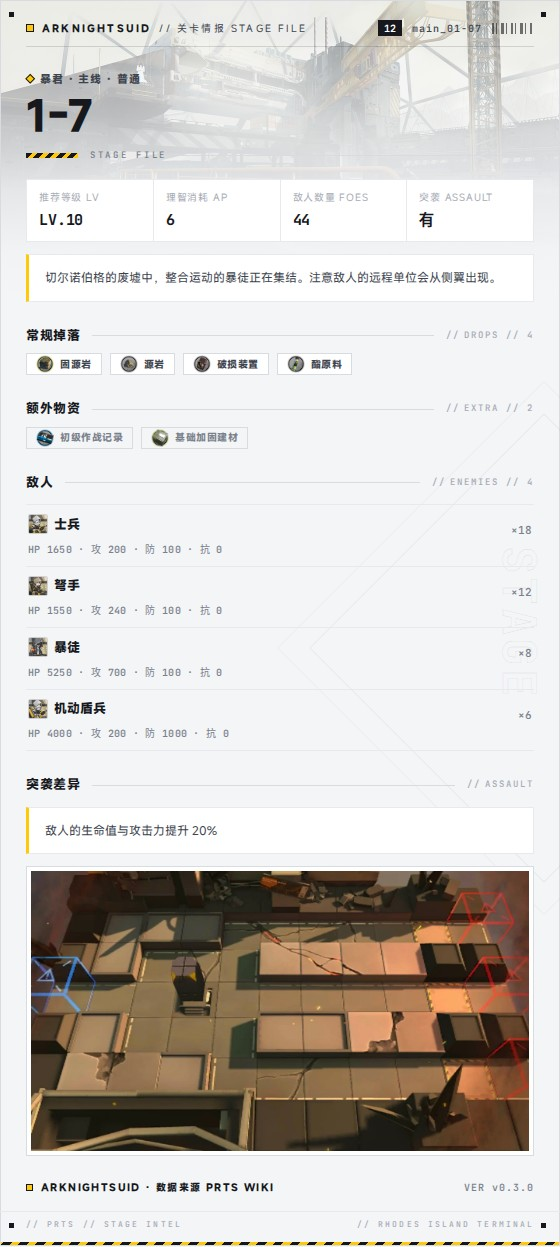
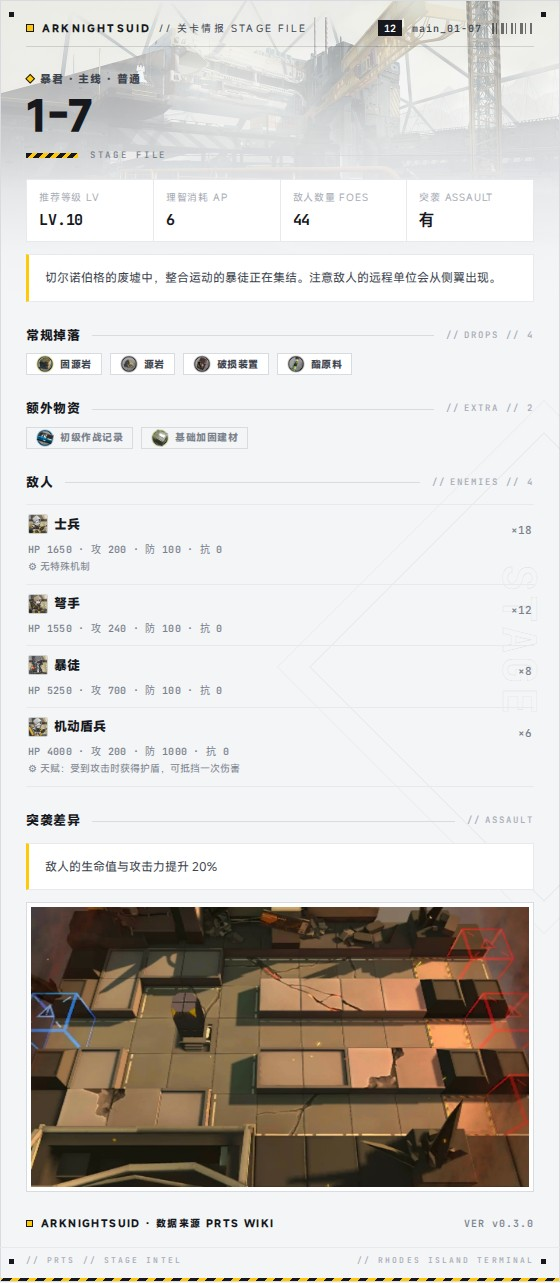
⚙ 敌人机制完善展示：关卡卡敌人行机制摘要 + 详情卡机制多行/等级2独立机制
- 关卡卡：敌人页等级块的天赋/能力字段压缩为一行「⚙ 机制」摘要（多行展平、clip 120），
  文本回退附「｜机制：…」；数值行取自同一敌人页，不增加额外请求
- 敌人详情卡：「能力」区块更名「机制」并保留多行结构（pre-line，状态机类机制如
  萨卡兹魔剑士【待命】/【临战】不再被折叠）；等级2变体如有独立机制单独成区
- 实测：1-7 鸡尾酒投掷者「天赋：不会攻击飞行单位」上关卡卡；魔剑士多行机制完整渲染
- 全量 338 通过；预览与帮助文案同步

diff --git a/ArknightsUID/templates/ark_wiki_enemy.html b/ArknightsUID/templates/ark_wiki_enemy.html
@@ -79,10 +79,17 @@
 
         {% if abilities %}
         <div class="sect">
-            <span class="sect-label bk">能力</span>
+            <span class="sect-label bk">机制</span>
             <span class="sect-en">ABILITIES // {{ abilities | length }}</span>
         </div>
-        <div class="prose">{{ abilities | join("；") }}</div>
+        <div class="prose" style="white-space: pre-line;">{{ abilities | join("\n") }}</div>
+        {% endif %}
+        {% if lv2_abilities %}
+        <div class="sect">
+            <span class="sect-label bk">等级2机制</span>
+            <span class="sect-en">LV2 ABILITIES // {{ lv2_abilities | length }}</span>
+        </div>
+        <div class="prose" style="white-space: pre-line;">{{ lv2_abilities | join("\n") }}</div>
         {% endif %}
 
         {% if description %}

diff --git a/ArknightsUID/templates/ark_wiki_stage.html b/ArknightsUID/templates/ark_wiki_stage.html
@@ -97,6 +97,9 @@
                     HP {{ e.hp or "-" }} · 攻 {{ e.atk or "-" }} · 防 {{ e.defense or "-" }} · 抗 {{ e.res or "-" }}
                 </div>
                 {% endif %}
+                {% if e.mechanics %}
+                <div style="margin-top: 2px; font-size: 10px; color: var(--tx-2); line-height: 1.6;">⚙ {{ e.mechanics }}</div>
+                {% endif %}
             </div>
             {% endfor %}
         </div>

diff --git a/tests/test_wiki_render.py b/tests/test_wiki_render.py
@@ -535,9 +535,15 @@ class WikiBuildContextTest(unittest.IsolatedAsyncioTestCase):
             title="爱国者",
             name="爱国者",
             levels=[
-                EnemyLevel(max_hp="45000", atk="1600", defense="500", res="45"),
-                # 等级2 变体（差异字段已在解析层从等级1继承补全）
-                EnemyLevel(max_hp="60000", atk="2000", defense="500", res="45"),
+                EnemyLevel(
+                    max_hp="45000", atk="1600", defense="500", res="45",
+                    abilities=["行军姿态：防御力大幅提升，阻挡数+1"],
+                ),
+                # 等级2 变体（差异字段已在解析层从等级1继承补全）+ 独立机制
+                EnemyLevel(
+                    max_hp="60000", atk="2000", defense="500", res="45",
+                    abilities=["毁灭姿态：攻击造成范围伤害"],
+                ),
             ],
         )
         context = await _build_enemy_context(enemy)
@@ -546,9 +552,19 @@ class WikiBuildContextTest(unittest.IsolatedAsyncioTestCase):
         self.assertEqual(context["lv2_atk"], "2000")
         self.assertEqual(context["lv2_defense"], "500")
         self.assertEqual(context["lv2_res"], "45")
+        self.assertEqual(
+            context["abilities"], ["行军姿态：防御力大幅提升，阻挡数+1"]
+        )
+        self.assertEqual(context["lv2_abilities"], ["毁灭姿态：攻击造成范围伤害"])
         text = _format_enemy(enemy)
         self.assertIn("等级2：", text)
         self.assertIn("生命 60000", text)
+        self.assertIn("等级2机制：毁灭姿态：攻击造成范围伤害", text)
+        html_render = ark_templates.get_template("ark_wiki_enemy.html").render(
+            font_css_url="about:blank", **context
+        )
+        self.assertIn("毁灭姿态", html_render)
+        self.assertIn("等级2机制", html_render)
 
     async def test_build_stage_context_without_map_file(self) -> None:
         """地图文件不存在/解析失败：map_image 留空，其余字段不受影响。"""
@@ -631,7 +647,13 @@ class WikiBuildContextTest(unittest.IsolatedAsyncioTestCase):
                     title="士兵",
                     name="士兵",
                     levels=[
-                        EnemyLevel(max_hp="1650", atk="200", defense="100", res="0")
+                        EnemyLevel(
+                            max_hp="1650",
+                            atk="200",
+                            defense="100",
+                            res="0",
+                            abilities=["天赋：不会攻击飞行单位"],
+                        )
                     ],
                 )
             return None
@@ -662,8 +684,12 @@ class WikiBuildContextTest(unittest.IsolatedAsyncioTestCase):
         # 查不到的敌人不携带数值键（模板只显示名字）
         self.assertNotIn("hp", rows[1])
         # 文本回退同样带基础数值
+        # 机制压缩行（多行条目展平）
+        self.assertEqual(rows[0]["mechanics"], "天赋：不会攻击飞行单位")
+        self.assertEqual(rows[1]["mechanics"], "")
         text = _format_stage(stage, rows)
         self.assertIn("士兵x18（HP1650·攻200·防100·抗0）", text)
+        self.assertIn("机制：天赋：不会攻击飞行单位", text)
         self.assertIn("查无此敌x1", text)
         # 无增强数据时回退纯名单（不带空括号）
         plain = _format_stage(stage)

diff --git a/ArknightsUID/arknightsuid_wiki/__init__.py b/ArknightsUID/arknightsuid_wiki/__init__.py
@@ -325,6 +325,8 @@ def _format_enemy(enemy: EnemyInfo) -> str:
             ]
             if stats2:
                 lines.append("等级2：" + "，".join(stats2))
+            if lv2.abilities:
+                lines.append("等级2机制：" + _clip("；".join(lv2.abilities), 200))
 
     _append_source(lines, enemy.source_url)
     return "\n".join(lines)
@@ -367,7 +369,10 @@ def _format_stage(stage: StageInfo, enemies_ctx: list[dict] | None = None) -> st
                 if row.get(key)
             ]
             stat_text = f"（{'·'.join(stats)}）" if stats else ""
-            enemies.append(f"{row['name']}{suffix}{stat_text}")
+            entry = f"{row['name']}{suffix}{stat_text}"
+            if row.get("mechanics"):
+                entry += f"｜机制：{_clip(row['mechanics'], 50)}"
+            enemies.append(entry)
         lines.append("敌人：" + "、".join(enemies))
     if stage.assault_diffs:
         lines.append("突袭差异：" + "；".join(stage.assault_diffs))
@@ -760,6 +765,10 @@ async def _build_enemy_context(enemy: EnemyInfo) -> dict:
         "lv2_res": level2.res if level2 else "",
         "weight": level.weight if level else "",
         "abilities": list(level.abilities) if level else [],
+        # 等级2 变体独立机制（差异块未写则与等级1一致，不重复展示）
+        "lv2_abilities": (
+            list(level2.abilities) if level2 and level2.abilities else []
+        ),
         "icon": await enemy_icon_b64(enemy.name or enemy.title),
         "source_url": enemy.source_url,
         "version": ArknightsUID_version,
@@ -785,6 +794,8 @@ async def _enemy_basic_stats(name: str) -> dict:
                 "atk": lv.atk,
                 "defense": lv.defense,
                 "res": lv.res,
+                # 机制（等级块的天赋/能力/技能字段；完整内容走 ark敌人 详情卡）
+                "abilities": [a for a in (lv.abilities or []) if a],
             }
     except Exception:
         logger.debug(f"[ArknightsUID] 关卡敌人数值获取失败：{name}", exc_info=True)
@@ -817,6 +828,13 @@ async def _enrich_stage_enemies(stage: StageInfo, limit: int = 10) -> list[dict]
             row.update(stats)
         if not row.get("icon"):
             row["icon"] = ""
+        # 机制压缩为一行（多行条目展平；完整机制在敌人详情卡）
+        abilities = row.pop("abilities", None) or []
+        if abilities:
+            flat = "；".join(str(a).replace("\n", "；") for a in abilities)
+            row["mechanics"] = _clip(flat, 120)
+        else:
+            row["mechanics"] = ""
         rows.append(row)
     return rows
 

diff --git a/tools/render_previews.py b/tools/render_previews.py
@@ -338,9 +338,12 @@ MOCK_CONTEXTS = {
         "lv2_res": "60",
         "weight": "6",
         "abilities": [
-            "行军姿态：防御力大幅提升，阻挡数+1",
+            "行军姿态：防御力大幅提升，阻挡数+1，法术抗性提升",
             "毁灭姿态：攻击力大幅提升，攻击造成范围伤害",
             "被击败时释放冲击波，对全场造成真实伤害",
+        ],
+        "lv2_abilities": [
+            "狂怒姿态：攻击速度与移动速度大幅提升，防御力降低",
         ],
         "source_url": "https://prts.wiki/w/爱国者",
         "version": VERSION,
@@ -366,10 +369,12 @@ MOCK_CONTEXTS = {
             {"name": "基础加固建材", "icon": ""},
         ],
         "enemies": [
-            {"name": "士兵", "count": 18, "level": "", "icon": "", "hp": "1650", "atk": "200", "defense": "100", "res": "0"},
+            {"name": "士兵", "count": 18, "level": "", "icon": "", "hp": "1650", "atk": "200", "defense": "100", "res": "0",
+             "mechanics": "无特殊机制"},
             {"name": "弩手", "count": 12, "level": "", "icon": "", "hp": "1550", "atk": "240", "defense": "100", "res": "0"},
             {"name": "暴徒", "count": 8, "level": "", "icon": "", "hp": "5250", "atk": "700", "defense": "100", "res": "0"},
-            {"name": "机动盾兵", "count": 6, "level": "", "icon": "", "hp": "4000", "atk": "200", "defense": "1000", "res": "0"},
+            {"name": "机动盾兵", "count": 6, "level": "", "icon": "", "hp": "4000", "atk": "200", "defense": "1000", "res": "0",
+             "mechanics": "天赋：受到攻击时获得护盾，可抵挡一次伤害"},
         ],
         "assault_diffs": ["敌人的生命值与攻击力提升 20%"],
         "map_image": "",

diff --git a/README.md b/README.md
@@ -39,7 +39,7 @@ GsCore 明日方舟插件，支持自有森空岛登录（凭据/扫码），也
 - `ark干员 干员名`: 查询干员资料（技能逐级详情含伤害数值、天赋逐阶段与满潜数值；已绑定账号时附「我的练度」——当前技能/专精等级 vs 满级对比、专精训练剩余时间；支持别名，如 `ark干员 silverash`）。
 - `ark专精材料 干员名`: 查询技能专精材料。
 - `ark材料 材料名`: 查询材料资料。
-- `ark敌人 敌人名`: 查询敌人资料（基础数值与等级 2 变体）。
+- `ark敌人 敌人名`: 查询敌人资料（基础数值、机制/天赋、等级 2 变体数值与独立机制）。
 - `ark关卡 1-7`: 查询关卡信息、掉落、敌方情报（含 HP/攻/防/抗基础数值）、关卡地图（PRTS 文件）与 PRTS.Map 交互链接。
 - `ark公招 标签1 标签2`: 公招标签组合查询。
 - `ark日历`: 活动 / 卡池日历。
